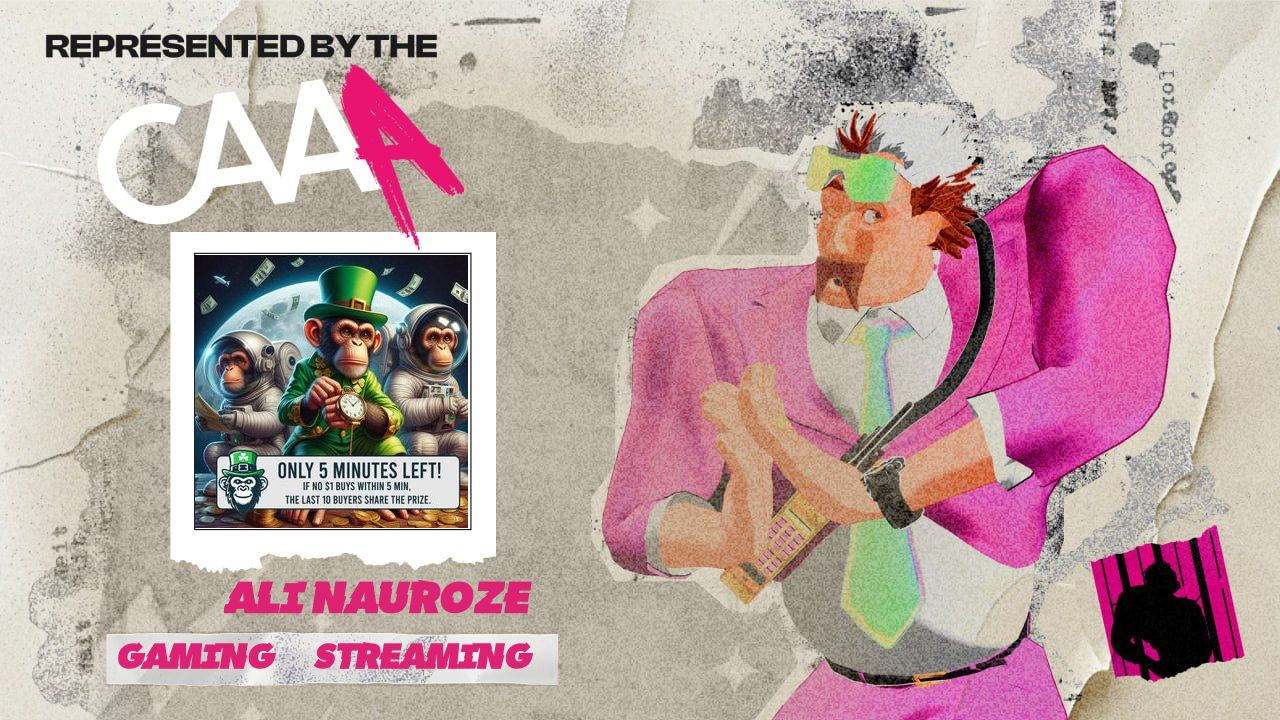
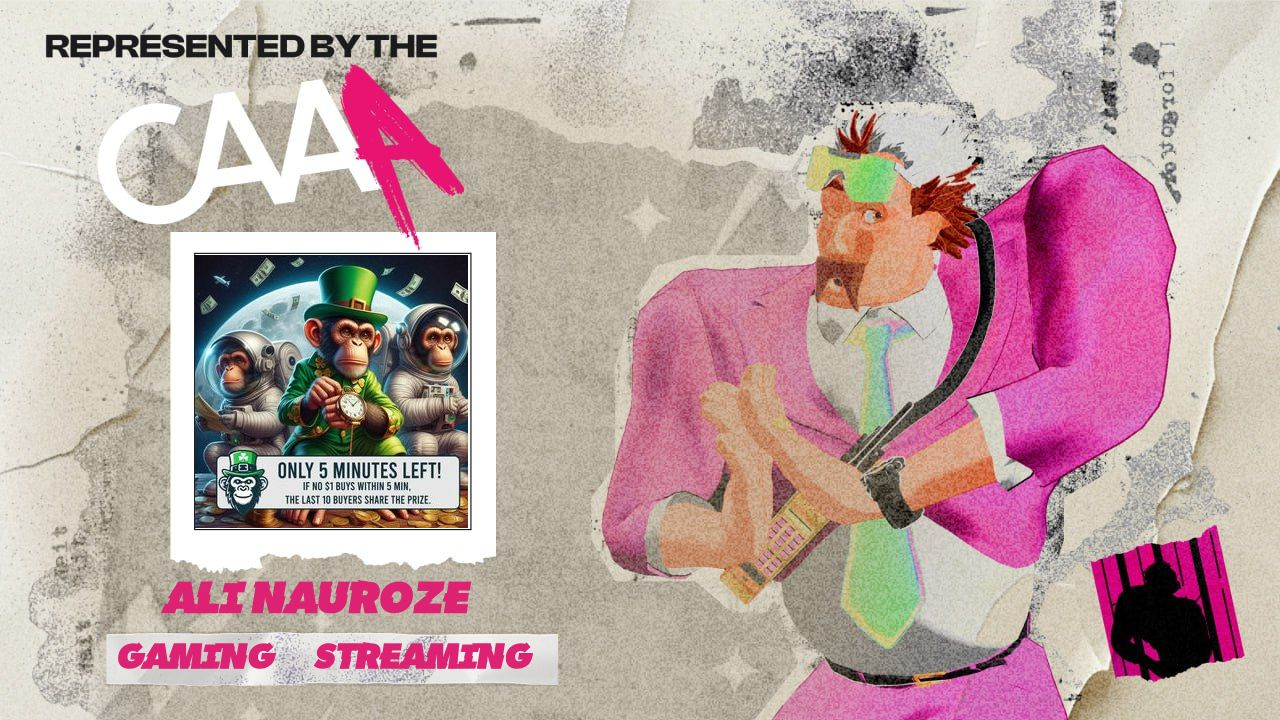
alignment

Changed region(s): [[0.125, 0.7944, 0.4375, 0.8556]]

diff --git a/bot/utils/imageGeneration.js b/bot/utils/imageGeneration.js
@@ -161,12 +161,12 @@ async function processImage(profilePicPath, outputImagePath, text, text2) {
     const textHeight = fontSize; // Use exact font size (no extra padding)
 
     // Create a real canvas with correct dimensions for the SVG
-    const canvas = createCanvas(textWidth, textHeight, 'svg');
+    const canvas = createCanvas(420, textHeight, 'svg');
     const ctx = canvas.getContext('2d');
     ctx.font = `${fontSize}px IGORE-BoldItalic`;
     ctx.fillStyle = '#dd2173';
     ctx.textBaseline = 'top';
-    ctx.fillText(text, 0, 0);
+    ctx.fillText(text, (420 - textWidth) / 2, 0);
 
     const canvas2 = createCanvas(420, textHeight + 10, 'svg');
     const ctx2 = canvas2.getContext('2d');
@@ -194,7 +194,7 @@ async function processImage(profilePicPath, outputImagePath, text, text2) {
     await background
       .composite([
         { input: profileImage, top: 255, left: 195 },
-        { input: Buffer.from(svgBuffer), top: 570, left: 224 }, // Text position
+        { input: Buffer.from(svgBuffer), top: 570, left: 116 }, // Text position
         { input: Buffer.from(nicheSVG), top: 634, left: 116 }, // Text position
         // { input: Buffer.from(nicheSVG), top: 654, left: 390 } // Text position
       ]) // Position the profile image
